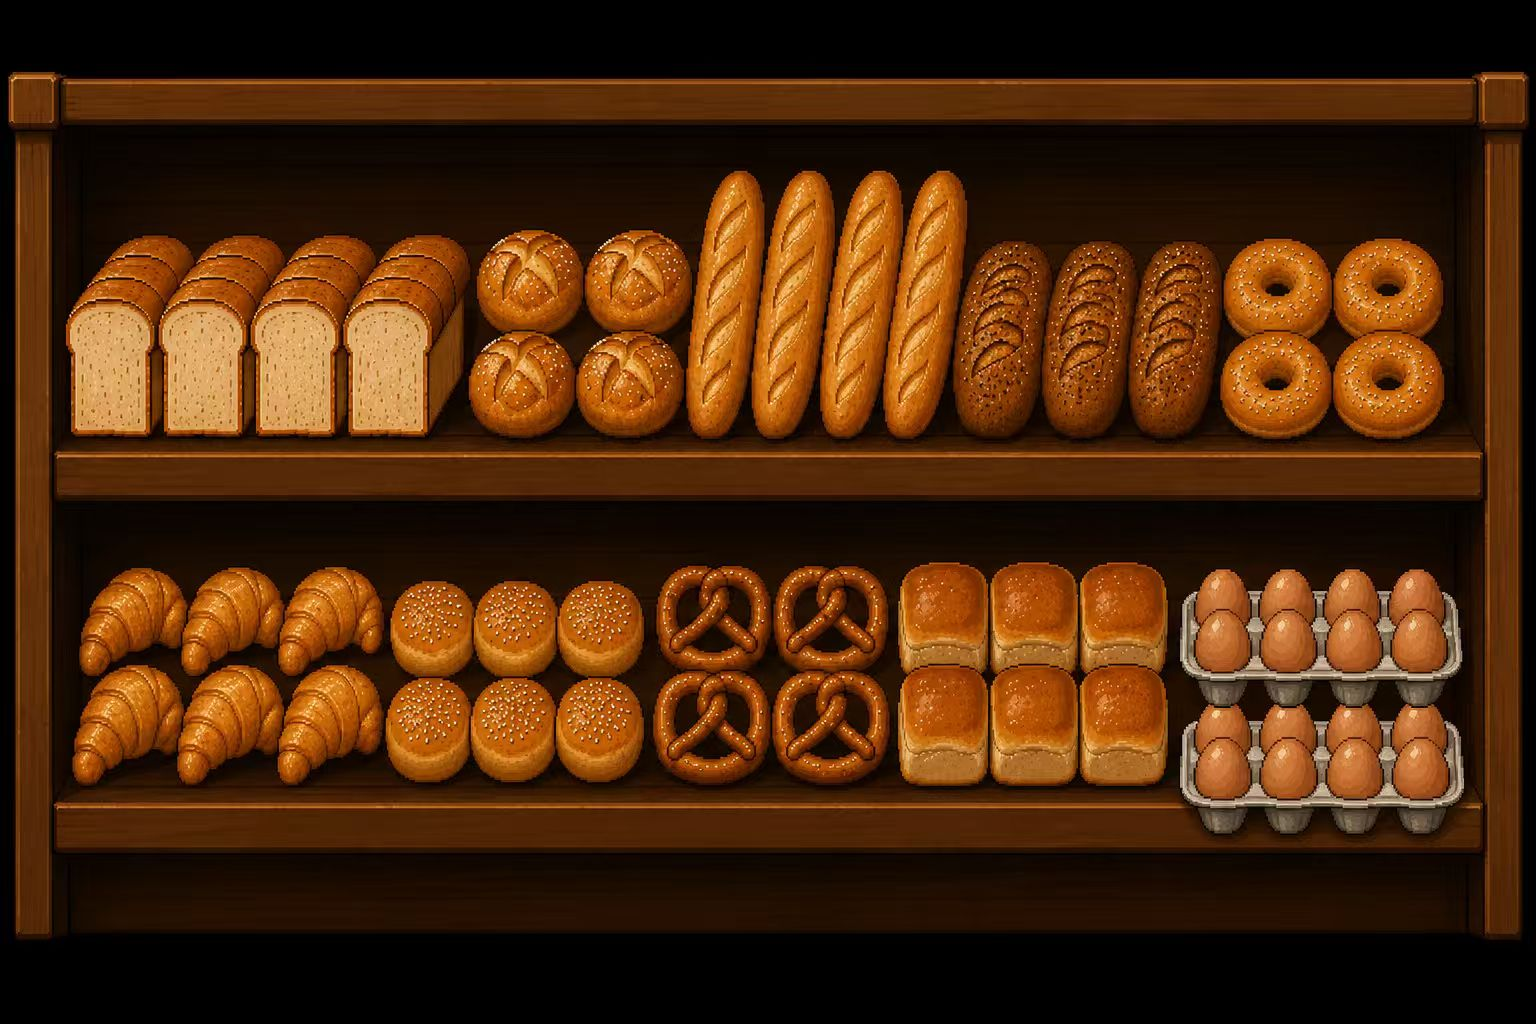
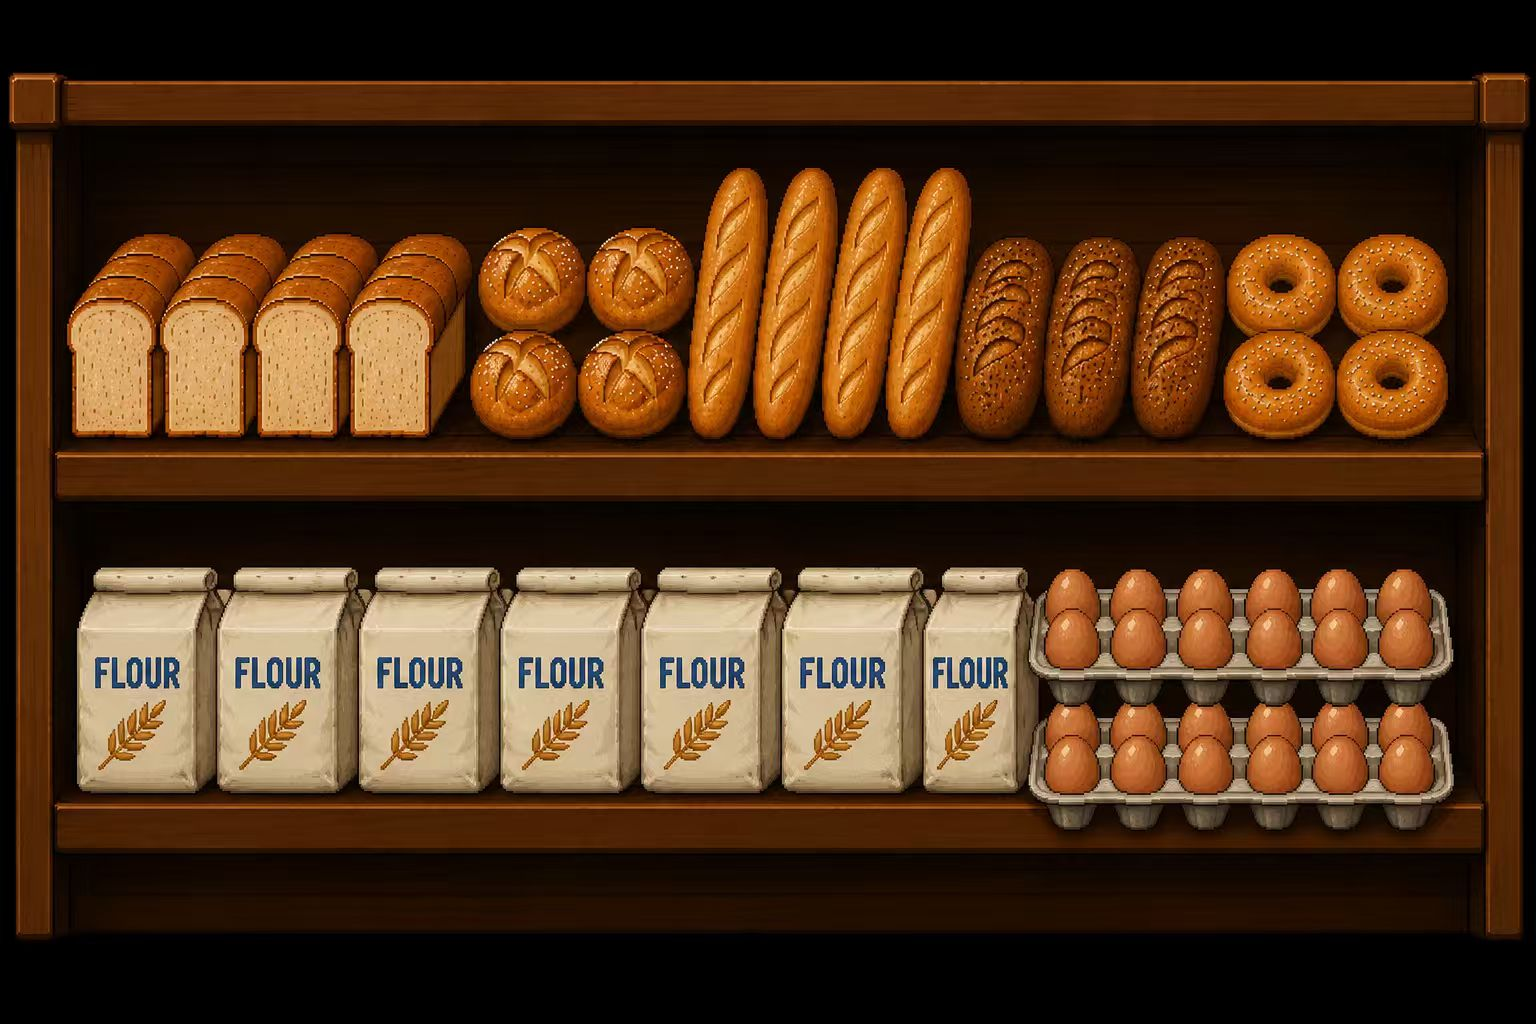
Update code

diff --git a/main.py b/main.py
@@ -19,9 +19,11 @@ from screens.fruit import fruitAisle
 from screens.meat import meatAisle
 from screens.vegetables import vegetablesAisle
 
+
 clock = pygame.time.Clock()
 
 font = pygame.font.Font(None, 36)
+itemFont = pygame.font.Font(None, 18)
 
 mainPlayer = Player(character_1, character_2, 225, 135)
 sprites = pygame.sprite.Group()
@@ -35,7 +37,7 @@ def check_click(events):
 
     return click
 
-def exit(state, events):
+def exitAisles(state, events):
     for event in events:
         if event.type == pygame.KEYDOWN:
             if event.key == pygame.K_ESCAPE:
@@ -86,6 +88,19 @@ while running:
         feet = (mainPlayer.rect.centerx, mainPlayer.rect.bottom - 20)
         play(screen, bg_supermarket, sprites, font, supermarket_level)
 
+        pygame.draw.rect(screen, (255,255,255), cartList)
+
+        cart = "Cart\n"
+        for item in shopping_cart:
+            cart += item 
+            cart += "\n"
+        text = itemFont.render(cart, True, (0, 0, 0))
+        
+        text_rect = text.get_rect(topleft=cartList.topleft)
+
+        screen.blit(text, text_rect)
+        
+
         if dairy.collidepoint(feet):
             state = "dairy-aisle"
 
@@ -111,25 +126,26 @@ while running:
                     resetPos = False
 
     if state == "dairy-aisle":
-        dairyAisle(screen, bg_dairy, font, pygame.mouse.get_pos(), check_click(events))
-        state, resetPos = exit(state, events)
+        addeditems = dairyAisle(screen, bg_dairy, font, pygame.mouse.get_pos(), check_click(events))
+        shopping_cart.extend(addeditems)
+        state, resetPos = exitAisles(state, events)
 
     if state == "bread-aisle":
         breadAisle(screen, bg_bread, font, pygame.mouse.get_pos(), check_click(events))
-        state, resetPos = exit(state, events)
+        state, resetPos = exitAisles(state, events)
 
     if state == "fruit-aisle":
         fruitAisle(screen, bg_fruit, font, pygame.mouse.get_pos(), check_click(events))
-        state, resetPos = exit(state, events)
+        state, resetPos = exitAisles(state, events)
 
     if state == "cleaning-aisle":
         cleaningAisle(screen, bg_cleaning, font, pygame.mouse.get_pos(), check_click(events))
-        state, resetPos = exit(state, events)
+        state, resetPos = exitAisles(state, events)
 
     if state == "vegetables-aisle":
         vegetablesAisle(screen, bg_vegetables, font, pygame.mouse.get_pos(), check_click(events))
-        state, resetPos = exit(state, events)
+        state, resetPos = exitAisles(state, events)
 
     if state == "meat-aisle":
         meatAisle(screen, bg_meat, font, pygame.mouse.get_pos(), check_click(events))
-        state, resetPos = exit(state, events)
+        state, resetPos = exitAisles(state, events)

diff --git a/sprites/player.py b/sprites/player.py
@@ -11,8 +11,10 @@ class Player(pygame.sprite.Sprite):
 
         self.rect = self.image.get_rect()
         self.rect.topleft = (x, y)
+        self.direction = "right"
 
         self.character_image = 1
+        self.count = 0
 
     def move(self, keys):
         moved = False
@@ -26,10 +28,20 @@ class Player(pygame.sprite.Sprite):
             moved = True
 
         if keys[pygame.K_LEFT]:
+            if self.direction == "right":
+                self.image1 = pygame.transform.flip(self.image1, True, False)
+                self.image2 = pygame.transform.flip(self.image2, True, False)
+                self.direction = "left"
+
             self.rect.x -= SPEED
             moved = True
 
         if keys[pygame.K_RIGHT]:
+            if self.direction == "left":
+                self.image1 = pygame.transform.flip(self.image1, True, False)
+                self.image2 = pygame.transform.flip(self.image2, True, False)
+                self.direction = "right"
+
             self.rect.x += SPEED
             moved = True
 
@@ -37,9 +49,15 @@ class Player(pygame.sprite.Sprite):
             self.swap_image()
 
     def swap_image(self):
-        if self.character_image == 1:
-            self.image = self.image2
-            self.character_image = 2
-        else:
-            self.image = self.image1
-            self.character_image = 1
+        #Thank you Max for this idea, this makes the movement more natural.
+        if self.count > 12:
+            if self.character_image == 1:
+                self.image = self.image2
+                self.character_image = 2
+            else:
+                self.image = self.image1
+                self.character_image = 1
+
+            self.count = 0
+
+        self.count += 1

diff --git a/rects.py b/rects.py
@@ -3,6 +3,8 @@ import pygame
 supermarket = pygame.Rect(320, 100, 110, 70)
 supermarketBounds = pygame.Rect(175, 100, 610, 480)
 
+cartList = pygame.Rect(10, 450, 160, 140)
+
 dairy = pygame.Rect(185, 200, 240, 60)
 bread = pygame.Rect(500, 200, 240, 60)
 
@@ -11,3 +13,22 @@ cleaning = pygame.Rect(500, 310, 240, 60)
 
 vegetables = pygame.Rect(185, 430, 240, 60)
 meat = pygame.Rect(500, 430, 240, 60)
+
+milk = pygame.Rect(40, 120, 260, 150)
+chocolate_milk = pygame.Rect(305, 130, 135, 140)
+yogurt = pygame.Rect(445, 130, 100, 140)
+strawberry_yogurt = pygame.Rect(560, 130, 100, 140)
+blueberry_yogurt = pygame.Rect(670, 130, 100, 140)
+butter = pygame.Rect(40, 350, 320, 140)
+cheese = pygame.Rect(370, 350, 400, 140)
+
+dairyAisleItems = {
+                    "Milk": milk,
+                    "Chocolate Milk": chocolate_milk, 
+                    "Yogurt": yogurt, 
+                    "Strawberry Yogurt": strawberry_yogurt, 
+                    "Blueberry Yogurt": blueberry_yogurt, 
+                    "Butter": butter, 
+                    "Cheese": cheese
+                   }
+

diff --git a/screens/dairy.py b/screens/dairy.py
@@ -1,3 +1,7 @@
+from rects import dairyAisleItems
+
+
+
 def dairyAisle(screen, bg_dairy, font, pos, click):
     screen.blit(bg_dairy, (0, 0))
 
@@ -5,3 +9,17 @@ def dairyAisle(screen, bg_dairy, font, pos, click):
     
     text_rect = text.get_rect()
     screen.blit(text, text_rect)
+
+    added_items = []
+    if click:
+        for key, value in dairyAisleItems.items():
+            if value.collidepoint(pos):
+                added_items.append(f"{key}".split('=')[0]) 
+
+    return added_items
+            
+                
+
+                
+        
+

diff --git a/assets.py b/assets.py
@@ -29,8 +29,8 @@ bg_meat = pygame.transform.scale(bg_meat, (WIDTH, HEIGHT))
 bg_vegetables = pygame.image.load("assets/background_vegetables.png").convert()
 bg_vegetables = pygame.transform.scale(bg_vegetables, (WIDTH, HEIGHT))
 
-character_1 = pygame.image.load("assets/character_1.png").convert_alpha()
-character_1 = pygame.transform.scale(character_1, (20, 50))
+character_1 = pygame.image.load("assets/character_1.gif").convert_alpha()
+character_1 = pygame.transform.scale(character_1, (30, 75))
 
-character_2 = pygame.image.load("assets/character_2.png").convert_alpha()
-character_2 = pygame.transform.scale(character_2, (20, 50))
+character_2 = pygame.image.load("assets/character_2.gif").convert_alpha()
+character_2 = pygame.transform.scale(character_2, (30, 75))

diff --git a/settings.py b/settings.py
@@ -4,7 +4,9 @@ HEIGHT = 600
 FPS = 60
 SPEED = 2
 
+shopping_cart = []
+
 supermarket_level = 1
 resetPos = False
-state = "supermarket-screen"
+state = "bread-aisle"
 running = True